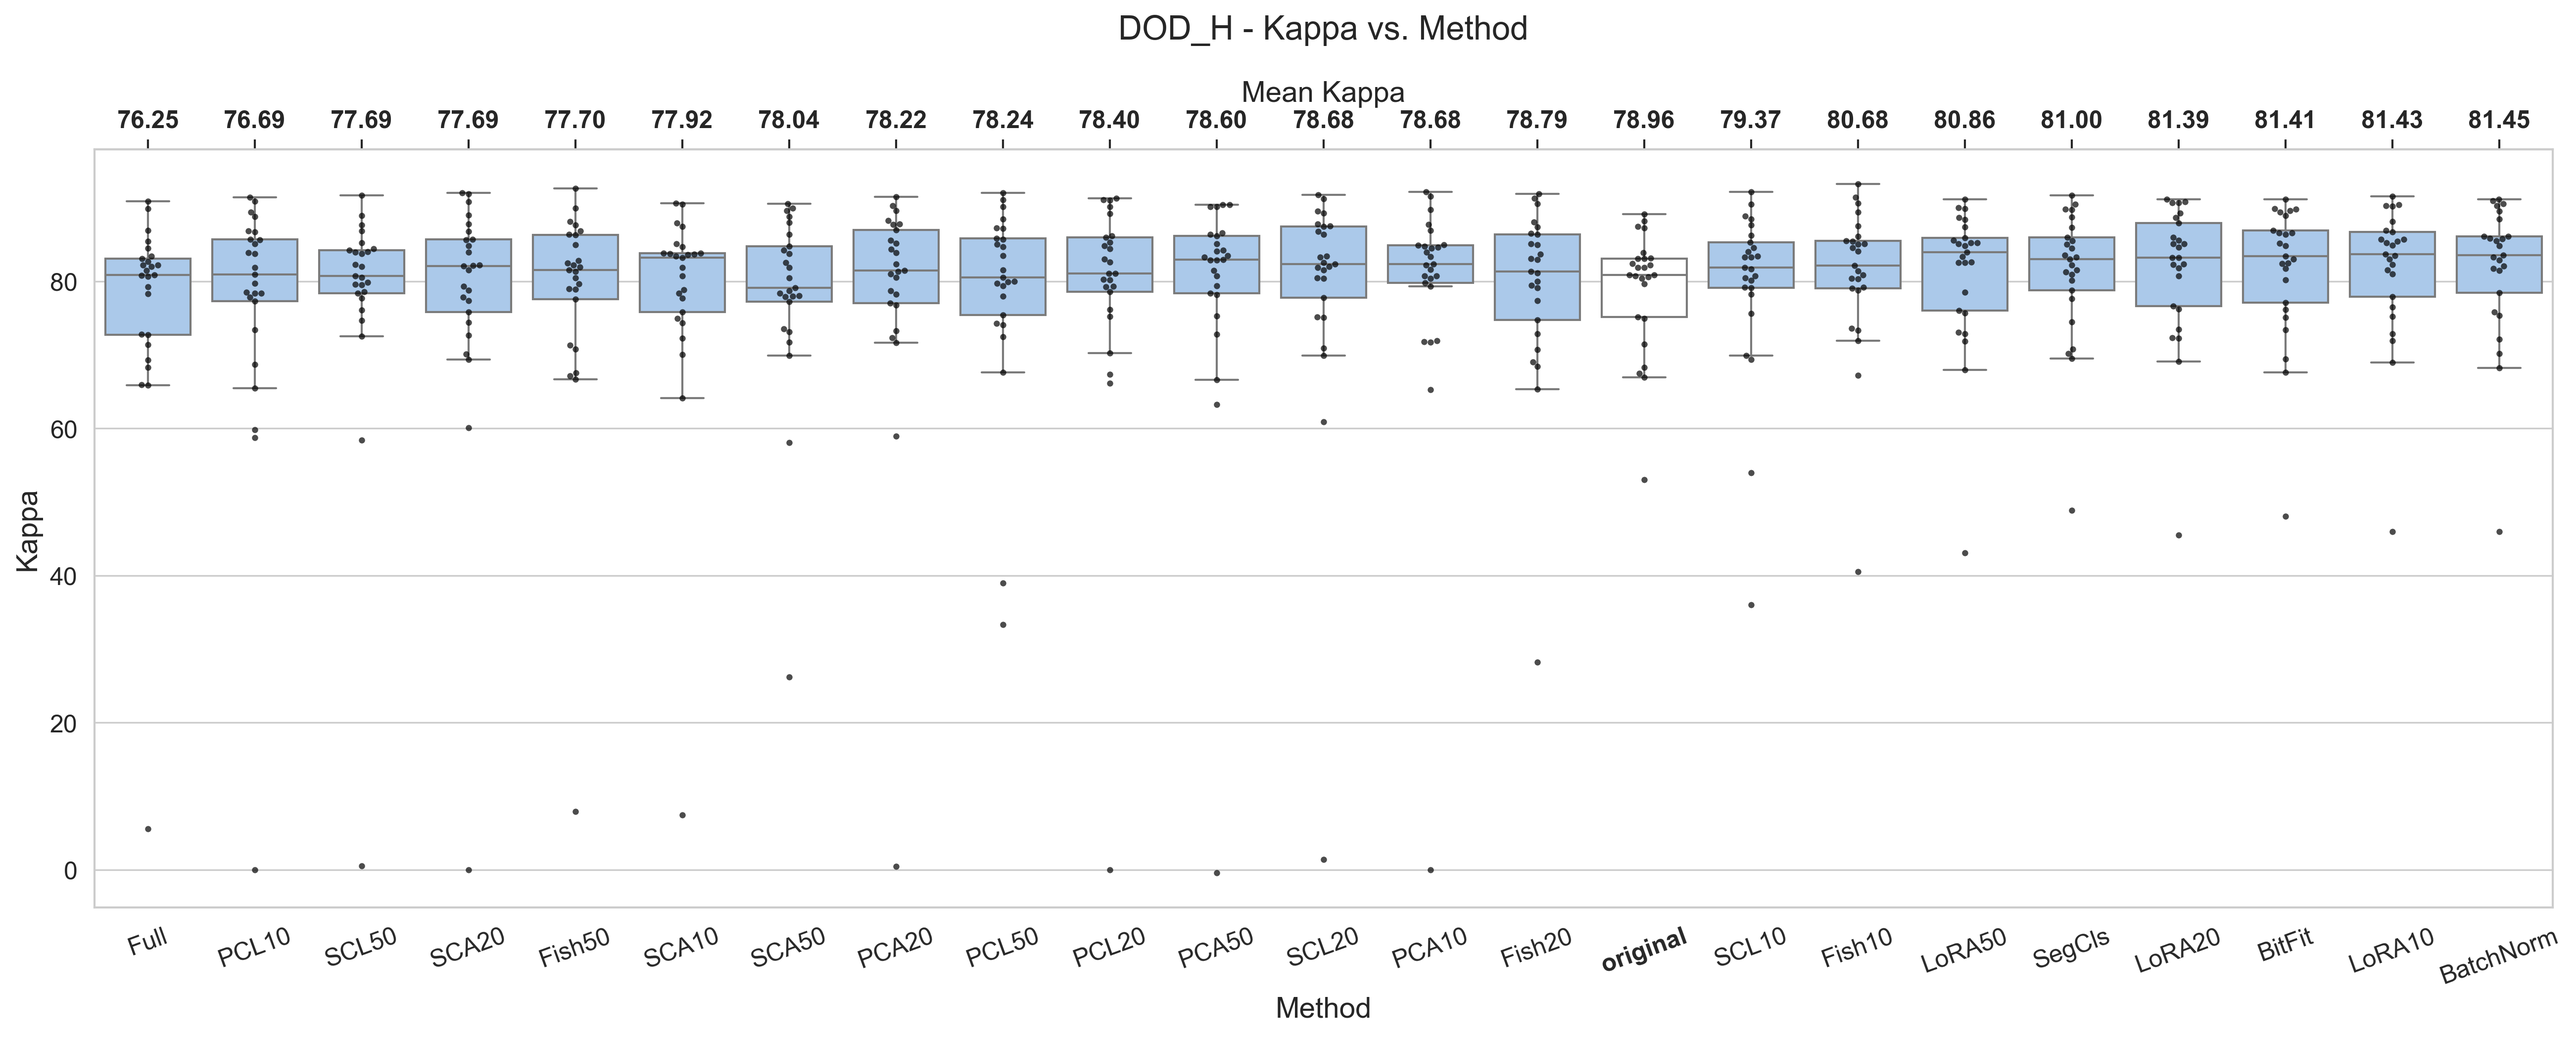
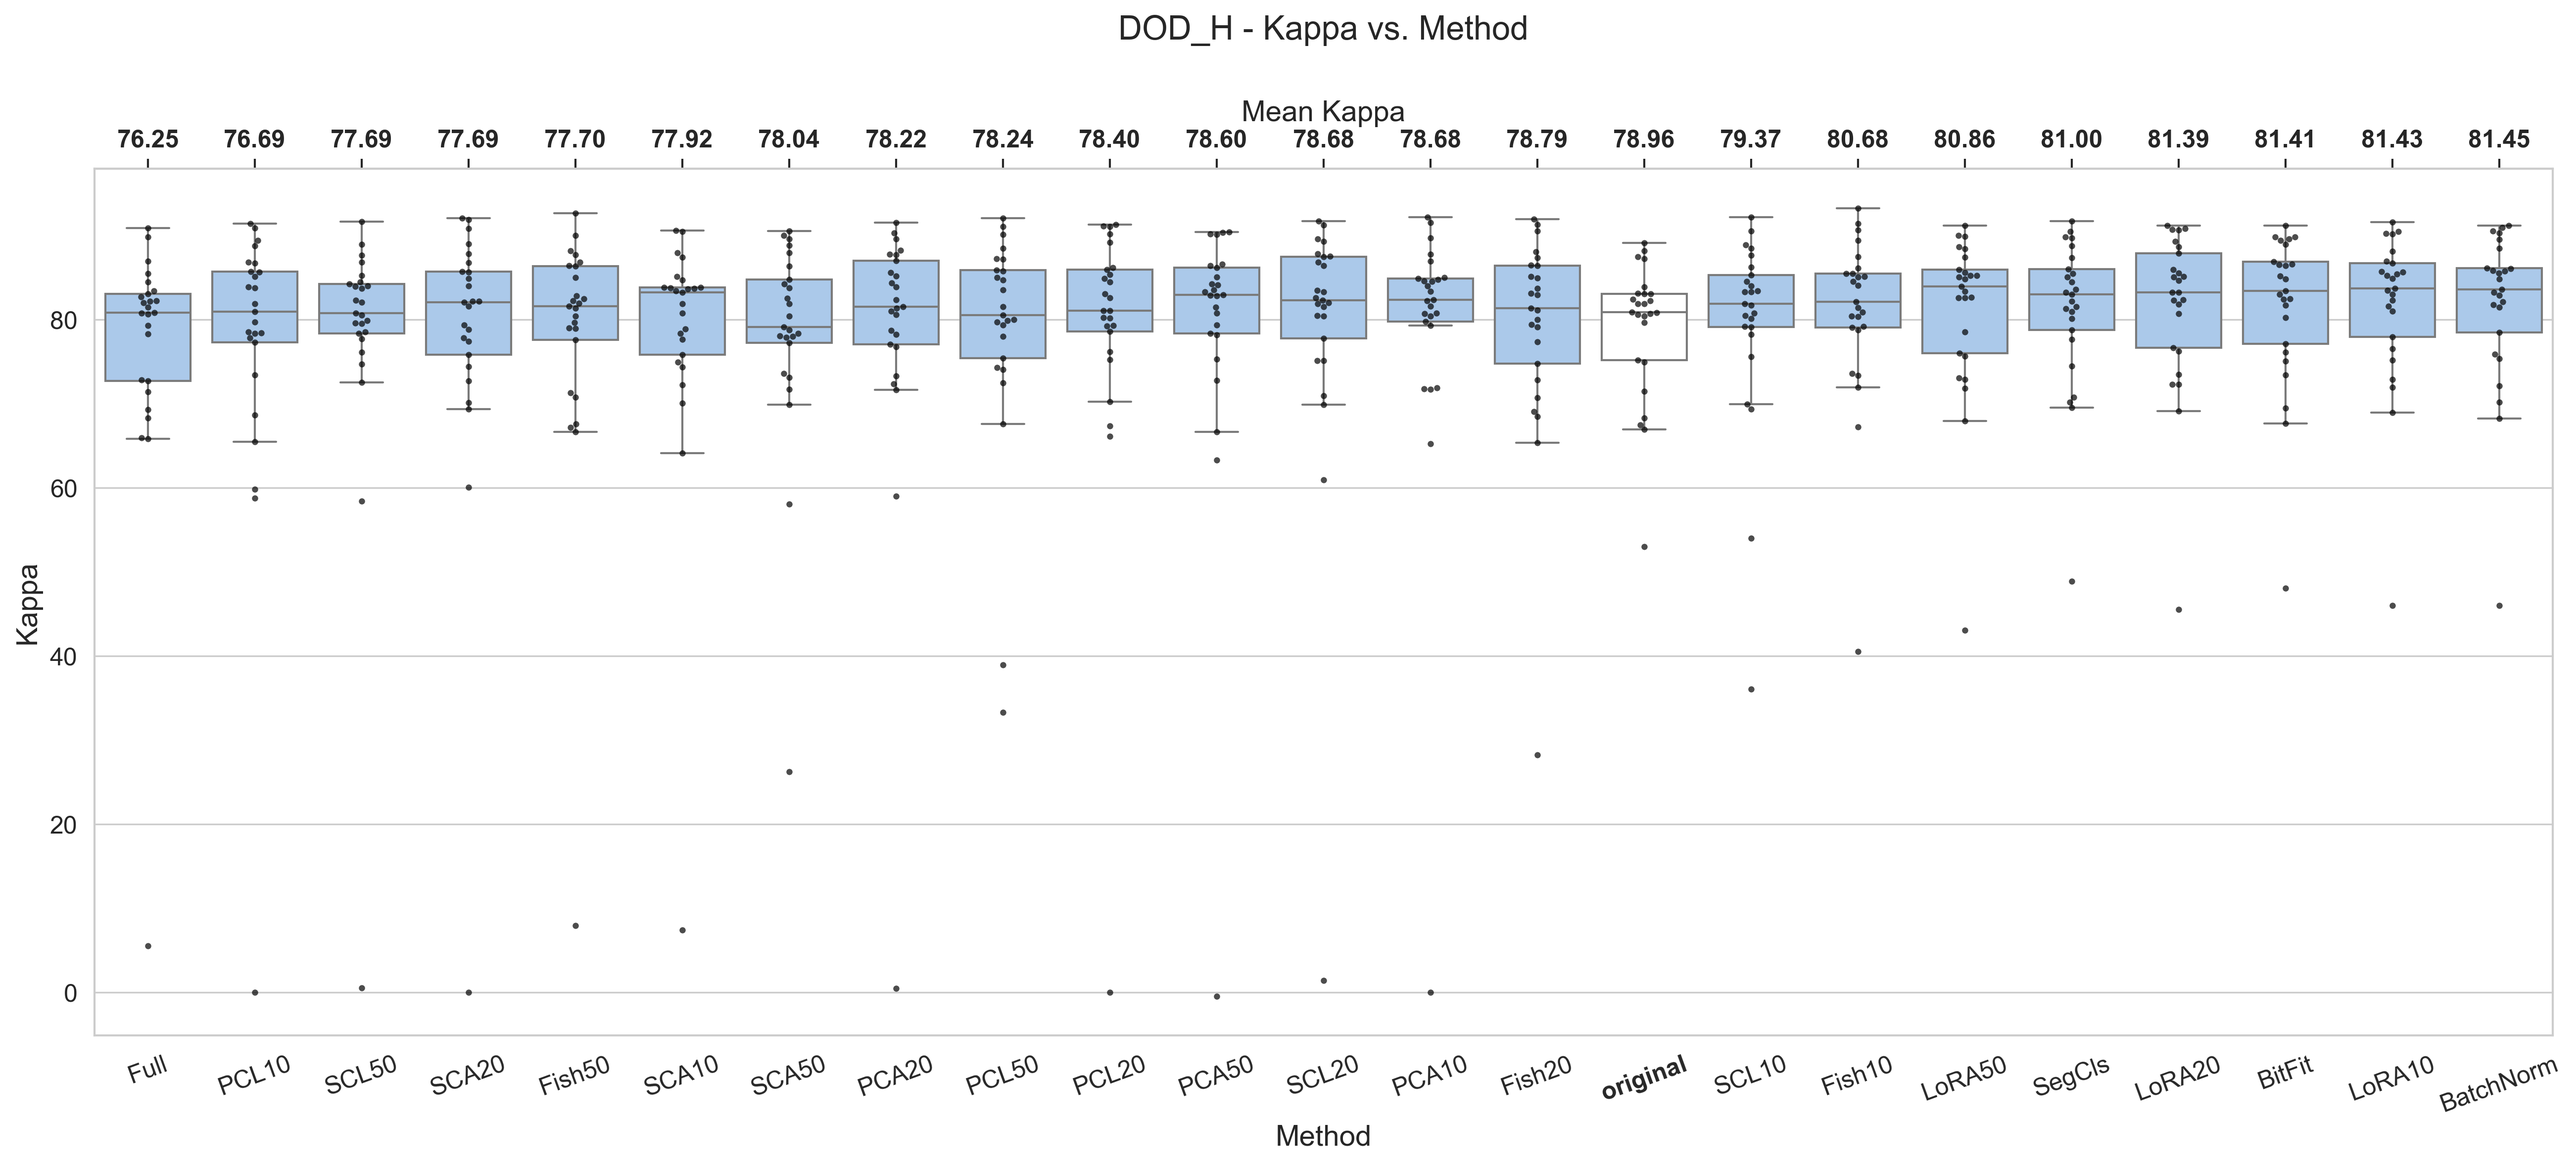
larger

diff --git a/src/plot/kappa_vs_methods.py b/src/plot/kappa_vs_methods.py
@@ -52,7 +52,7 @@ def _plot_kappa_vs_methods(data: pl.DataFrame, show: bool = False) -> None:
         for method in method_order
     }
 
-    fig = plt.figure(figsize=(18, 7))
+    fig = plt.figure(figsize=(18, 8))
     sns.set_theme(style="whitegrid", context="paper")
     ax = sns.boxplot(
         data=data,
